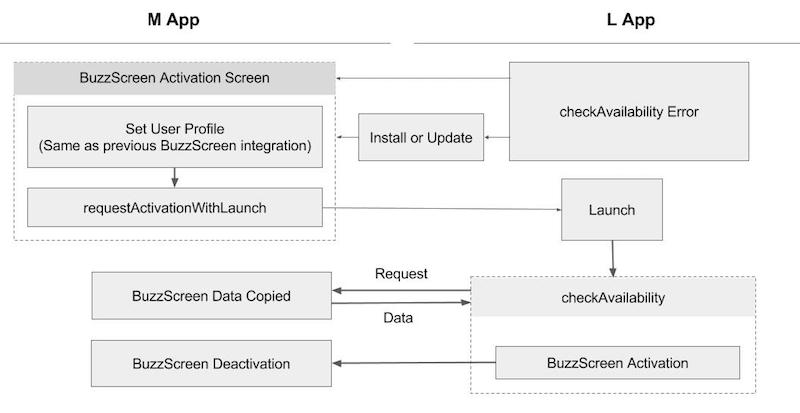
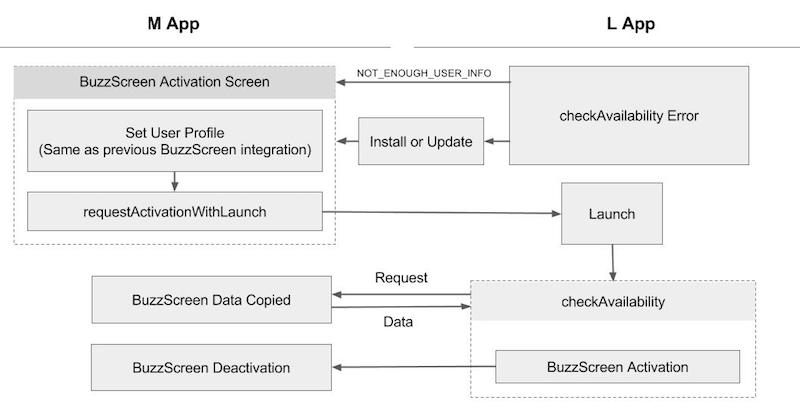
some fix

diff --git a/LIGHT-MIGRATION-L.md b/LIGHT-MIGRATION-L.md
@@ -2,8 +2,8 @@
 
 참고 샘플 : **`sample_lock_light`**
 
-- L앱은 M앱을 통해 잠금화면에 필요한 정보를 가져올 수 있어야 잠금화면을 활성화 할 수 있습니다.
-    > 필요한 정보가 없을경우 M앱의 잠금화면 활성화 화면을 통해 잠금화면 활성화해야함을 유저에게 알려주게 됩니다. 이 과정에서 **M앱의 잠금화면 활성화 화면**으로 연결되는 딥링크가 있으면 더욱 자연스러운 유저경험을 만들 수 있습니다.
+- L앱은 M앱으로부터 잠금화면에 필요한 정보를 가져와야 잠금화면을 활성화 할 수 있습니다.
+    > 필요한 정보가 없을 경우 M앱의 [잠금화면 활성화 화면](LIGHT-MIGRATION-M.md#4.-잠금화면-활성화-화면-변경)을 통해 잠금화면 활성화해야함을 유저에게 알려주게 됩니다. 이 과정에서 **M앱의 잠금화면 활성화 화면**으로 연결되는 딥링크가 있으면 더욱 자연스러운 유저경험을 만들 수 있습니다.
 - M앱이 제거되거나 M앱에서 로그아웃 시점에 `MigrationHost.requestDeactivation()` 를 호출하면 자동으로 L앱의 잠금화면이 비활성화됩니다.
 - L앱의 버즈스크린 연동에서 유저 정보 설정 과정은 따로 진행하지 않아도 됩니다.
     > 마이그레이션 SDK를 통해 M앱에서 설정된 버즈스크린 유저 정보를 그대로 가져와서 사용하게 됩니다.
@@ -110,25 +110,25 @@ public class App extends Application {
 L앱에서의 잠금화면 활성화는 **M앱에서 정보 가져오기 -> 버즈스크린 활성화** 과정으로 진행됩니다. 그리고 L앱의 잠금화면이 활성화되면 자동으로 M앱의 잠금화면이 비활성화 됩니다. L앱이 실행될 때 이 과정이 진행되면서 마이그레이션이 되고, 이후에도 M앱의 정보를 통해 L앱의 잠금화면을 활성화시키게 됩니다.
 > 버즈스크린 활성화 과정에서는 기존 버즈스크린 연동처림 `BuzzScreen.getInstance().launch()` -> `BuzzScreen.getInstance().activate()` 를 그대로  사용합니다.
 
-M앱의 정보를 가져오기 위해서는 `MigrationClient`에서 다음 함수를 제공합니다.
+M앱의 정보를 가져오기 위해 `MigrationClient`에서 다음 함수를 제공합니다.
 
 - `checkAvailability(Activity activity, OnCheckAvailabilityListener listener)`
 
-    비동기로 M앱에서 버즈스크린 활성화에 필요한 정보들을 가져오고, M앱의 상태에따라 자동으로 잠금화면을 활성화합니다. L앱 진입화면의 `onResume` 에서 호출하여 마이그레이션이 L앱 실행시 바로 수행되도록 합니다.
+    비동기로 M앱에서 버즈스크린 활성화에 필요한 정보들을 가져오고, M앱의 상태에 따라 자동으로 잠금화면을 활성화합니다. L앱 진입화면의 `onResume` 에서 호출하여 마이그레이션이 L앱 실행시 바로 수행되도록 합니다.
     > 자동으로 잠금화면 활성화 되는 조건 : M앱에서 잠금화면을 사용중이거나 `MigrationHost.requestActivationWithLaunch()`를 호출하여 L앱을 실행한 경우.
     
     **Parameters**
     - `activity` : 이 함수가 실행되는 액티비티 전달
     - `OnCheckAvailabilityListener`
-        - `onAvailable(boolean autoActivated)` : 버즈스크린을 사용할 수 있는 경우 호출됩니다.
+        - `onAvailable(boolean autoActivated)` : 버즈스크린을 활성화할 수 있는 경우 호출됩니다.
             - `autoActivated` : 자동으로 잠금화면이 활성화되면 `ture` 그렇지않으면 `false`
         - `onError(AvailabilityCheckError error)` : 버즈스크린을 사용할 수 없는 경우 호출됩니다.
             - `MAIN_APP_NOT_INSTALLED` : M앱이 설치되지 않은 경우로 M앱의 설치를 유도합니다.
             - `MAIN_APP_MIGRATION_NOT_SUPPORTED` : M앱이 마이그레이션을 지원하지 않는 버전으로 M앱의 업데이트를 유도합니다.
-            - `NOT_ENOUGH_USER_INFO` : 버즈스크린을 활성화하는데 필요한 정보가 충분하지 않은경우 호출됩니다. M앱의 잠금화면 활성화 페이지로 이동시킵니다.
+            - `NOT_ENOUGH_USER_INFO` : 버즈스크린을 활성화하는데 필요한 정보가 충분하지 않은 경우 호출됩니다. M앱의 잠금화면 활성화 페이지로 이동시킵니다.
             - `UNKNOWN_ERROR` : 잘못된 연동 혹은 일시적인 에러로 발생할 수 있습니다. 일시적인 에러인 경우에는 재시도를 유도합니다.
 
-    - `checkAvailability`에서 `onAvailable`을 통해 잠금화면이 활성화되는 경우는 [L앱 잠금화면 활성화 흐름](LIGHT-MIGRATION-M.md#L앱-잠금화면-활성화-흐름)을 참고합니다.
+    - `checkAvailability`에서 `onAvailable`을 통해 잠금화면이 활성화되는 경우는 [L앱 잠금화면 활성화 흐름](LIGHT-MIGRATION-M.md#l앱-잠금화면-활성화-흐름)을 참고합니다.
     - `onError` 처리 흐름은 다음 그림을 참고합니다.  
 
 #### checkAvailability Error Flow
@@ -196,8 +196,9 @@ public class MainActivity extends AppCompatActivity {
 ```
 
 
-### 샘플 잠금화면 전용앱 활용하여 잠금화면 전용앱 만들기
-`sample_lock_light`에서 확인할 수 있는 샘플 잠금화면 앱은 위 가이드의 구현을 담았을 뿐만 아니라 기본 기능도 구현되어있습니다. 따라서 `sample_lock_light` 을 다운받고 다음 과정만 진행해도 잠금화면 앱이 완성됩니다.
+### 샘플을 활용하여 잠금화면 전용앱 만들기
+`sample_lock_light`에서 확인할 수 있는 샘플 잠금화면 앱은 위 가이드의 구현을 담았을 뿐만 아니라 최소한의 기능도 구현되어있습니다. 따라서 `sample_lock_light` 을 다운받고 다음 과정만 진행해도 잠금화면 앱이 완성됩니다.
+> 최소한의 기능은 아니지만 잠시 끄기 기능도 구현되어있음.
 
 1. `build.gradle` 변경 : `my_app_key`는 기존에 발급받았던 버즈스크린 앱키로 변경하고, `applicationId` 는 새롭게 만드는 잠금화면 앱의 패키지명으로 변경합니다.
 2. `AndroidManifest.xml` 변경 : `<app_license>`, `<plist>` 를 새롭게 발급받은 값으로 변경합니다.

diff --git a/LIGHT-MIGRATION-M.md b/LIGHT-MIGRATION-M.md
@@ -91,26 +91,26 @@ public class App extends Application {
 ### 4. 잠금화면 활성화 화면 변경
 L앱은 M앱의 정보를 가지고 잠금화면을 활성화 할 뿐 직접 유저에게 정보나 동의를 받는 과정이 없습니다. 이 때문에 L앱에서는 기존 M앱의 잠금화면 활성화 화면(유저 프로필, 사용동의, 활성화/비활성화 설정 화면)을 변경하여 사용하게 됩니다.
 - 잠금화면 활성화 화면 액티비티로 이동하는 [딥링크](https://developer.android.com/training/app-links/deep-linking.html)를 설정합니다. 
-    > L앱에서 잠금화면 활성화에 필요한 정보나 유저 사용 동의가 없는 경우 M앱의 잠금화면 활성화 화면으로 이동시켜 이 과정을 진행합니다.
+    > L앱에서 잠금화면 활성화에 필요한 정보나 유저 사용 동의가 필요한 경우 M앱의 잠금화면 활성화 화면으로 이동시켜 이 과정을 진행합니다. 만약 딥링크 개발이 어려운 경우 그냥 M앱을 실행시키게 됩니다. 
 - 앱내의 잠금화면 활성화 화면에서 활성화/비활성화를 설정하는 스위치를 배너 형태로 변경합니다. 해당 배너 클릭시 혹은 잠금화면 사용 동의를 받고 잠금화면을 활성화하는 곳(기존의 `BuzzScreen.getInstance().activate()` 호출하는 지점과 동일)에 다음 함수를 호출합니다.
     > M앱이 마이그레이션을 지원하는 버전이 되면 이 배너가 L앱으로 마이그레이션을 수행하는 하나의 채널이 됩니다.
 
-- `MigrationHost.requestActivationWithLaunch()`
+    - `MigrationHost.requestActivationWithLaunch()`
 
-    L앱을 통해 잠금화면을 활성화합니다. L앱이 설치안된 경우 마켓을 통해 설치후 자동으로 활성화되고, L앱이 설치된 경우 L앱을 실행하면서 자동으로 잠금화면이 활성화됩니다.
-    > `MigrationHost.requestActivationWithLaunch()` 을 호출하기 전에도 이전 버즈스크린 연동처럼 `BuzzScreen.getInstance().getUserProfile()`를 통해 [유저 정보 설정](https://github.com/Buzzvil/buzzscreen-sdk-publisher#2-%EC%9C%A0%EC%A0%80-%EC%A0%95%EB%B3%B4-%EC%84%A4%EC%A0%95)하는 코드는 미리 호출되어야 합니다. 이 정보를 그대로 L앱에서 활용하여 잠금화면이 활성화됩니다.  
+        L앱을 통해 잠금화면을 활성화합니다. L앱이 설치안된 경우 마켓을 통해 설치후 자동으로 활성화되고, L앱이 설치된 경우 L앱을 실행하면서 자동으로 잠금화면이 활성화됩니다.
+        > `MigrationHost.requestActivationWithLaunch()` 을 호출하기 전에도 이전 버즈스크린 연동처럼 `BuzzScreen.getInstance().getUserProfile()`를 통해 [유저 정보 설정](https://github.com/Buzzvil/buzzscreen-sdk-publisher#2-%EC%9C%A0%EC%A0%80-%EC%A0%95%EB%B3%B4-%EC%84%A4%EC%A0%95)하는 코드는 미리 호출되어야 합니다. 이 정보를 그대로 L앱에서 활용하여 잠금화면이 활성화됩니다.  
 
-#### L앱 잠금화면 활성화 흐름
+#### L앱 잠금화면 활성화 과정
 ![Light Activation Flow From M](light_activation_flow_from_m.jpg)
 
 
 ### 5. 로그아웃 처리
 M앱에서 로그아웃이 일어나는 경우 `BuzzScreen.getInstance().logout()`, `MigrationHost.requestDeactivation()` 를 호출합니다.
-> L앱에서의 잠금화면을 비활성화하고, 다음 활성화시에 L앱에서 새로운 유저인증정보를 M앱으로부터 제공받기 위해서입니다.
+> L앱에서의 잠금화면을 비활성화하고, 다음 활성화시에 L앱에서 새로운 유저 정보를 M앱으로부터 제공받기 위해서입니다.
  
 - `MigrationHost.requestDeactivation()`
  
-    L앱에서 잠금화면이 활성화되어 있는 경우 해당 잠금화면을 비활성화합니다. M앱에서 로그아웃시에 L앱의 잠금화면을 비활성화하고 싶은경우 이 함수를 사용합니다.
+    L앱에서 잠금화면이 활성화되어 있는 경우 해당 잠금화면을 비활성화합니다.
 
 
 ### 그 밖의 유용한 함수들
